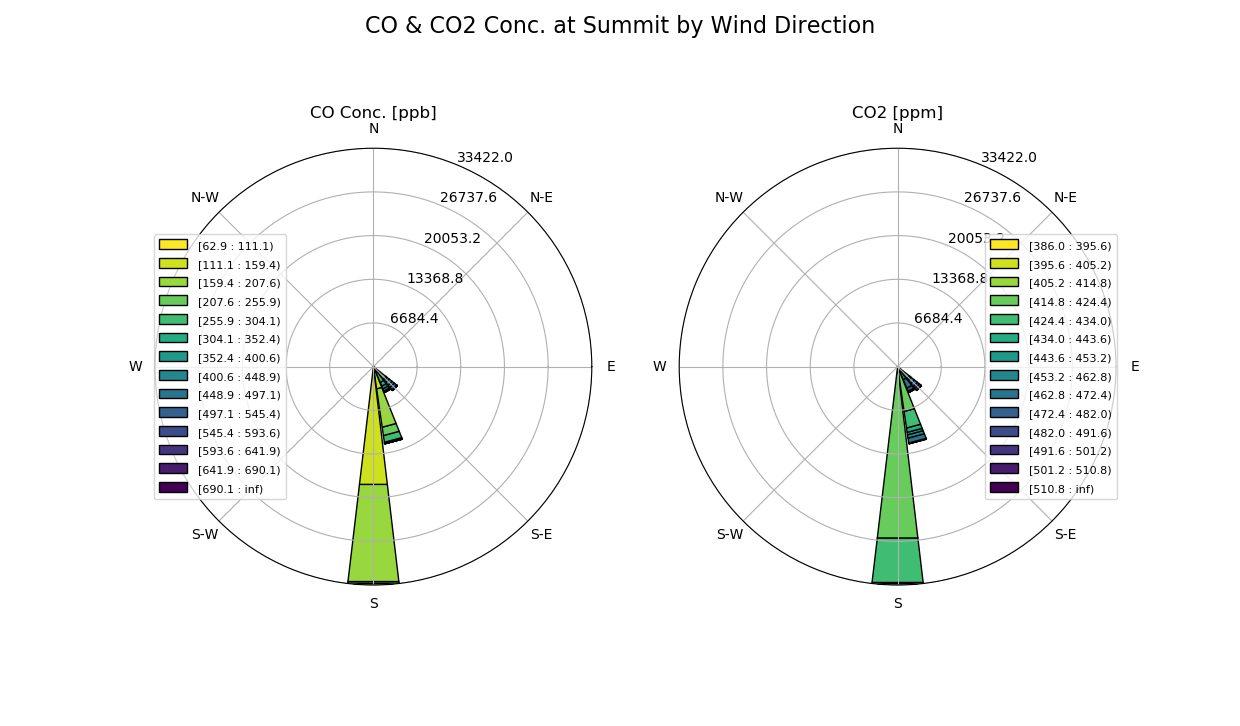
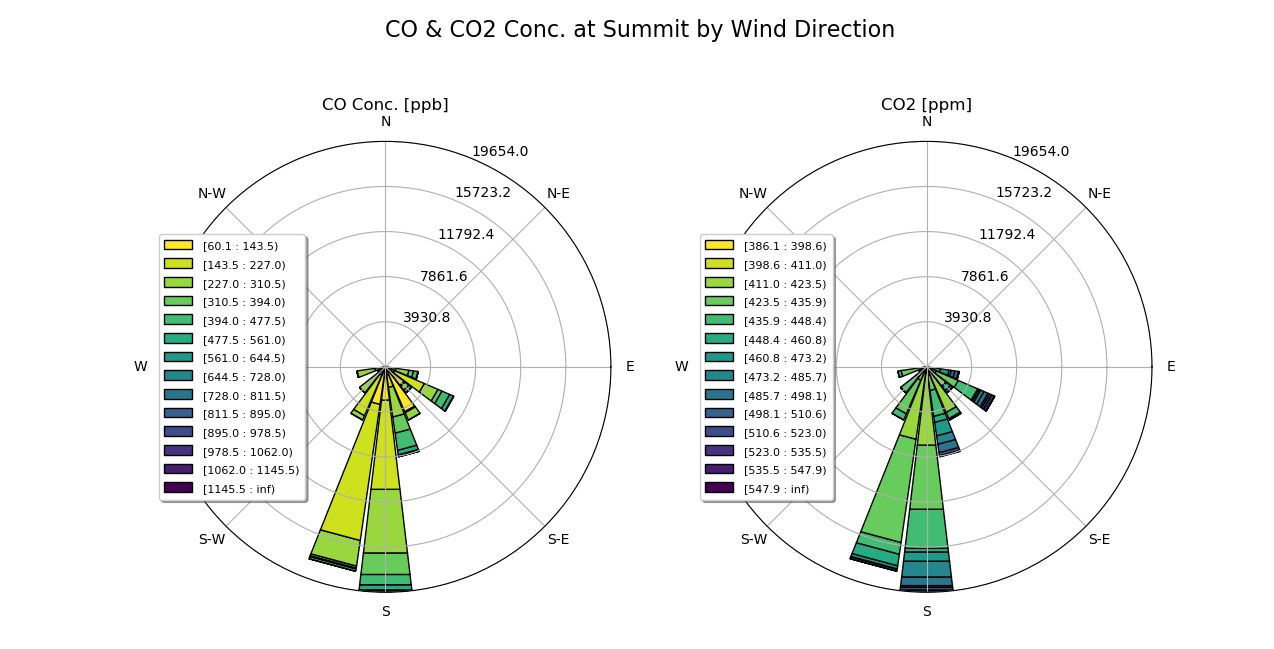
updated picarro windrose plots

diff --git a/analyses/WindRose/windRosePicarro.py b/analyses/WindRose/windRosePicarro.py
@@ -9,88 +9,41 @@ with with CO and CO2 data from the Picarro analyzer at summit.
 import matplotlib.pyplot as plt
 from WindRose.metTrim import metTrim
 import pandas as pd
-import numpy as np
-from numba import njit
+from decToDatetime import dateConv
+import windrose
+
 import matplotlib.cm as cm
 
 
-@njit
-def fastDateCombTwo(tolerence, date1, date2, value1, value2):
-    """
-    fastDateCombThree takes values from a numpy array and combines data points with mutual dates (in decimal year)
-    within a specified tolerence (in days). The final size of the array will be the size of the smaller array.
+def picarroMetCombo(filename):
 
-    note: output values that are negative or zero for the date are considered nan and can be removed. Comments for
-    this function in more detail can be found in 'windRoseConc.py'
+    met = metTrim()
+    sheet = pd.read_csv(filename, encoding='utf8', header=None, delim_whitespace=True)
+    sheet.columns = ['date', 'value']
+    sheet['datetime'] = dateConv(sheet['date'].values)
+    sheet.drop('date', axis=1, inplace=True)
+    earlyVals = ~(met['datetime'] <= sheet['datetime'][0])
+    met.drop(earlyVals, axis=0, inplace=True)
+    met.reset_index(drop=True, inplace=True)
+    met.drop(['steady'], axis=1, inplace=True)
 
-    :param tolerence: number of days where a value will be considered time equivalent with another
-    :param date1: the decimal year dates from the LARGER dataset
-    :param date2: the decimal year dates from the SMALLER dataset
-    :param value1: the larger dataset values
-    :param value2: the smaller dataset values
-    :return: returned value arrays and a singular date array to be combined outside of function
-    """
-    rem = tolerence / 365
-    dates = np.empty(date2.shape)
-    value_1 = np.empty(value2.shape)
-    value_2 = np.empty(value2.shape)
+    # merge the met data onto the concentration data by finding the nearest datetime within an hour\
+    sheet.dropna(axis=0, how='any', inplace=True)
+    picarro = pd.merge_asof(sheet.sort_values('datetime'), met,
+                            on='datetime',
+                            direction='nearest',
+                            tolerance=pd.Timedelta('1 hour'))
+    picarro.dropna(axis=0, how='any', inplace=True)
 
-    for i in range(len(dates)):
-        high = date2[i] + rem
-        low = date2[i] - rem
-        indices = (date1 <= high) & (date1 >= low)
-        dirMed = np.nanmedian(value1[indices])
-        if ~np.isnan(dirMed):
-            dates[i] = date2[i]
-            value_1[i] = dirMed
-            value_2[i] = value2[i]
-
-    return dates, value_1, value_2
-
+    return picarro
 
 def windRosePicarro():
 
     # ---- import data
-    met = metTrim()
     root = r'C:\Users\ARL\Desktop\J_Summit\analyses\HarmonicFit\textFiles'
 
-    co = pd.read_csv(root + r'\picarro_co.txt', delim_whitespace=True)
-    co2 = pd.read_csv(root + r'\picarro_co2.txt', delim_whitespace=True)
-    co.columns, co2.columns = ['date', 'value'], ['date', 'value']
-
-    # ---- data adjustments
-    earlyVals = ~(met['DecYear'] <= co['date'][0])                                               # trim early vals
-    met = met[earlyVals]
-    met = met.reset_index()
-    met = met.drop(['index', 'spd', 'steady'], axis=1)                                              # drop cols
-
-    lateVals = ~(co['date'] >= met['DecYear'].iloc[-1])
-    co, co2 = co[lateVals], co2[lateVals]
-    co, co2 = co.reset_index(), co2.reset_index()
-
-    metCO = pd.concat([met, co], sort=False, axis=1)                                                # combine datasets
-    dates, direc, gc = fastDateCombTwo(1, metCO['DecYear'].values,                                  # call fast func
-                                       metCO['date'].values,
-                                       metCO['dir'].values,
-                                       metCO['value'].values)
-    metCO_Final = pd.DataFrame(columns=['DecYear', 'dir', 'value'])                                 # preallocate mat
-    metCO_Final['DecYear'], metCO_Final['dir'], metCO_Final['value'] = dates, direc, gc             # append columns
-
-    index = ~(metCO_Final <= 0)                                                                     # remove neg & zero
-    metCO_Final = metCO_Final[index]
-    metCO_Final = metCO_Final.dropna(axis=0, how='any')                                             # drop nan
-
-    metCO2 = pd.concat([met, co2], sort=False, axis=1)
-    dates, direc, gc = fastDateCombTwo(1, metCO2['DecYear'].values,
-                                       metCO2['date'].values,
-                                       metCO2['dir'].values,
-                                       metCO2['value'].values)
-    metCO2_Final = pd.DataFrame(columns=['DecYear', 'dir', 'value'])
-    metCO2_Final['DecYear'], metCO2_Final['dir'], metCO2_Final['value'] = dates, direc, gc
-
-    index = ~(metCO2_Final <= 0)
-    metCO2_Final = metCO2_Final[index]
-    metCO2_Final = metCO2_Final.dropna(axis=0, how='any')
+    co = picarroMetCombo(root + r'\picarro_co.txt')
+    co2 = picarroMetCombo(root + r'\picarro_co2.txt')
 
     # ---- plotting
     fig, (ax1, ax2) = plt.subplots(1, 2, subplot_kw=dict(projection='windrose'))
@@ -98,16 +51,16 @@ def windRosePicarro():
     plt.subplots_adjust(left=None, bottom=None, right=None, top=None, wspace=0.2, hspace=-0.2)
 
     # setup CO windrose
-    ax1.bar(metCO_Final['dir'].values, metCO_Final['value'].values, normed=False, opening=0.9,
+    ax1.bar(co['dir'].values, co['value'].values, normed=False, opening=0.9,
             edgecolor='black', nsector=24, bins=14, cmap=cm.viridis_r, blowto=False)
     ax1.set_title('CO Conc. [ppb]')
-    ax1.set_legend(loc=8, fancybox=True, shadow=True, bbox_to_anchor=(0.5, -.5))
+    ax1.set_legend(loc=6, fancybox=True, shadow=True)
 
     # setup picarro CO2 windrose
-    ax2.bar(metCO2_Final['dir'].values, metCO2_Final['value'].values, normed=False, opening=0.9,
+    ax2.bar(co2['dir'].values, co2['value'].values, normed=False, opening=0.9,
             edgecolor='black', nsector=24, bins=14, cmap=cm.viridis_r, blowto=False)
     ax2.set_title('CO2 [ppm]')
-    ax2.set_legend(loc=8, fancybox=True, shadow=True, bbox_to_anchor=(0.5, -.5))
+    ax2.set_legend(loc=6, fancybox=True, shadow=True)
 
     plt.show()
 
